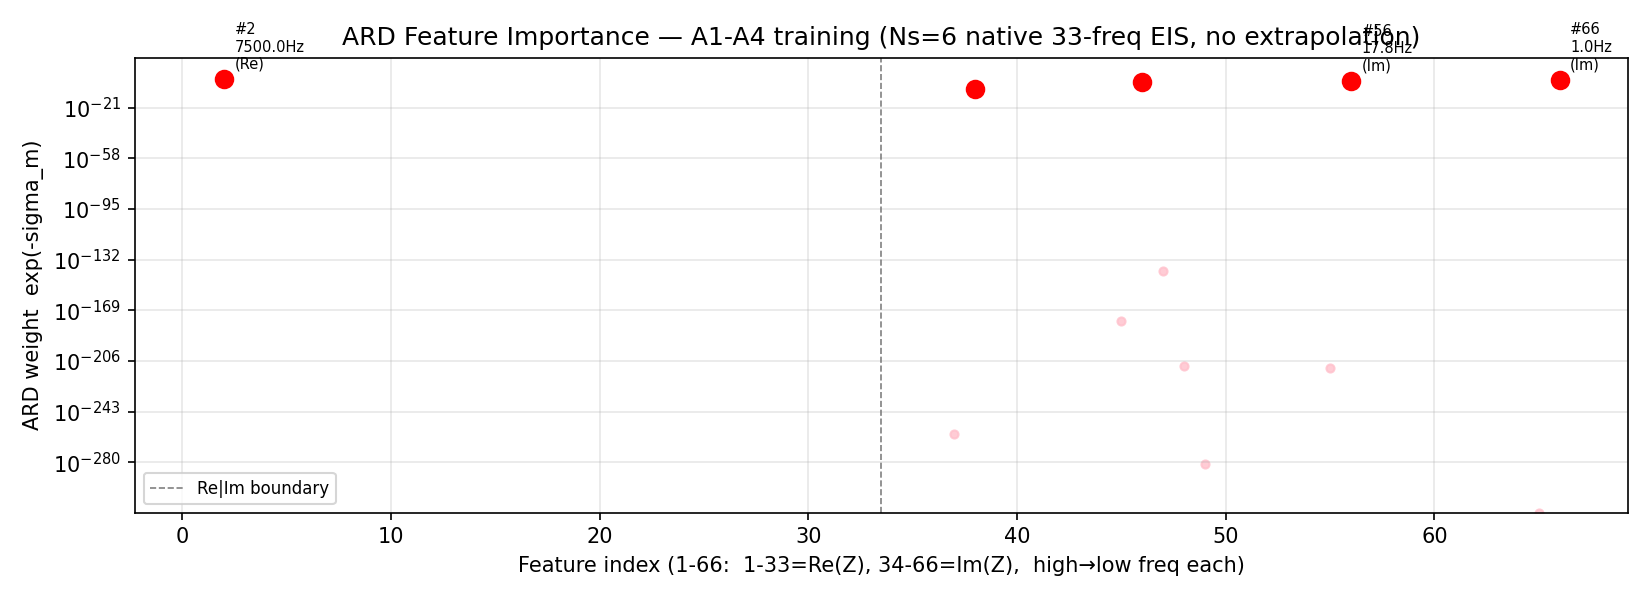
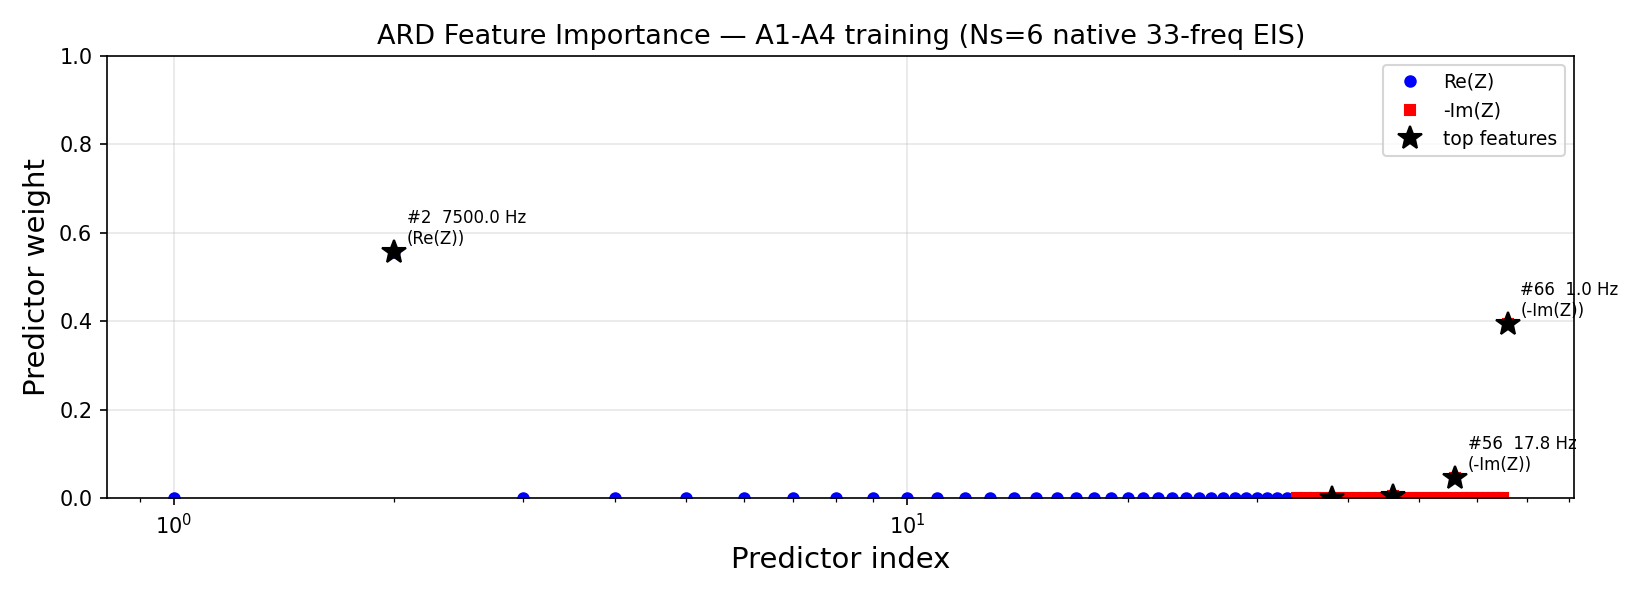
Fix ARD plot: linear y-axis 0-1, semilogx x-axis, colour-coded Re/Im
- Remove log y-scale (weights are 0-1, linear scale is correct)
- Switch to semilogx x-axis to match paper Fig 3c style
- Replace axvline Re|Im dividing line with colour coding:
  blue circles = Re(Z), red squares = -Im(Z)
- Y-axis now clearly shows weights between 0 and 1

diff --git a/battery_gpytorch_rtx4060/battery_gpytorch/run_new_dataset.py b/battery_gpytorch_rtx4060/battery_gpytorch/run_new_dataset.py
@@ -235,22 +235,25 @@ for f in top5:
     freq = feat_freqs[f-1]
     print(f'    Feature #{f} ({part} @ {freq:.4f} Hz)  w={weights[f-1]:.4f}')
 
-# ARD weight plot — annotate x-axis with frequency labels
+# ARD weight plot — match paper style (semilogx, linear y 0-1, colour-coded Re/Im)
 fig, ax = plt.subplots(figsize=(11, 4))
-ax.scatter(np.arange(1, 67), weights, s=15, color='pink', alpha=0.8)
-ax.scatter(top5, weights[top5-1], s=70, color='red', zorder=5)
+idx = np.arange(1, 67)
+re_mask = idx <= 33
+im_mask = ~re_mask
+ax.semilogx(idx[re_mask], weights[re_mask], 'bo', ms=5, label='Re(Z)')
+ax.semilogx(idx[im_mask], weights[im_mask], 'rs', ms=5, label='-Im(Z)')
+ax.semilogx(top5, weights[top5-1], 'k*', ms=12, zorder=5, label='top features')
 for f in top5[:3]:
     freq = feat_freqs[f-1]
-    part = 'Re' if f <= 33 else 'Im'
-    ax.annotate(f'#{f}\n{freq:.1f}Hz\n({part})',
+    part = 'Re(Z)' if f <= 33 else '-Im(Z)'
+    ax.annotate(f'#{f}  {freq:.1f} Hz\n({part})',
                 (f, weights[f-1]),
-                textcoords='offset points', xytext=(5, 5), fontsize=7)
-ax.set_xlabel('Feature index (1-66:  1-33=Re(Z), 34-66=Im(Z),  high→low freq each)')
-ax.set_ylabel('ARD weight  exp(-sigma_m)')
-ax.set_title('ARD Feature Importance — A1-A4 training (Ns=6 native 33-freq EIS, no extrapolation)')
-ax.axvline(33.5, color='gray', lw=0.8, ls='--', label='Re|Im boundary')
-ax.legend(fontsize=8)
-ax.set_yscale('log')
+                textcoords='offset points', xytext=(6, 4), fontsize=8)
+ax.set_xlabel('Predictor index', fontsize=14)
+ax.set_ylabel('Predictor weight', fontsize=14)
+ax.set_title('ARD Feature Importance — A1-A4 training (Ns=6 native 33-freq EIS)', fontsize=13)
+ax.set_ylim(0, 1)
+ax.legend(fontsize=9)
 ax.grid(True, alpha=0.3)
 plt.tight_layout()
 plt.savefig(OUT / 'fig_ARD_A1-A4.png', dpi=150)
